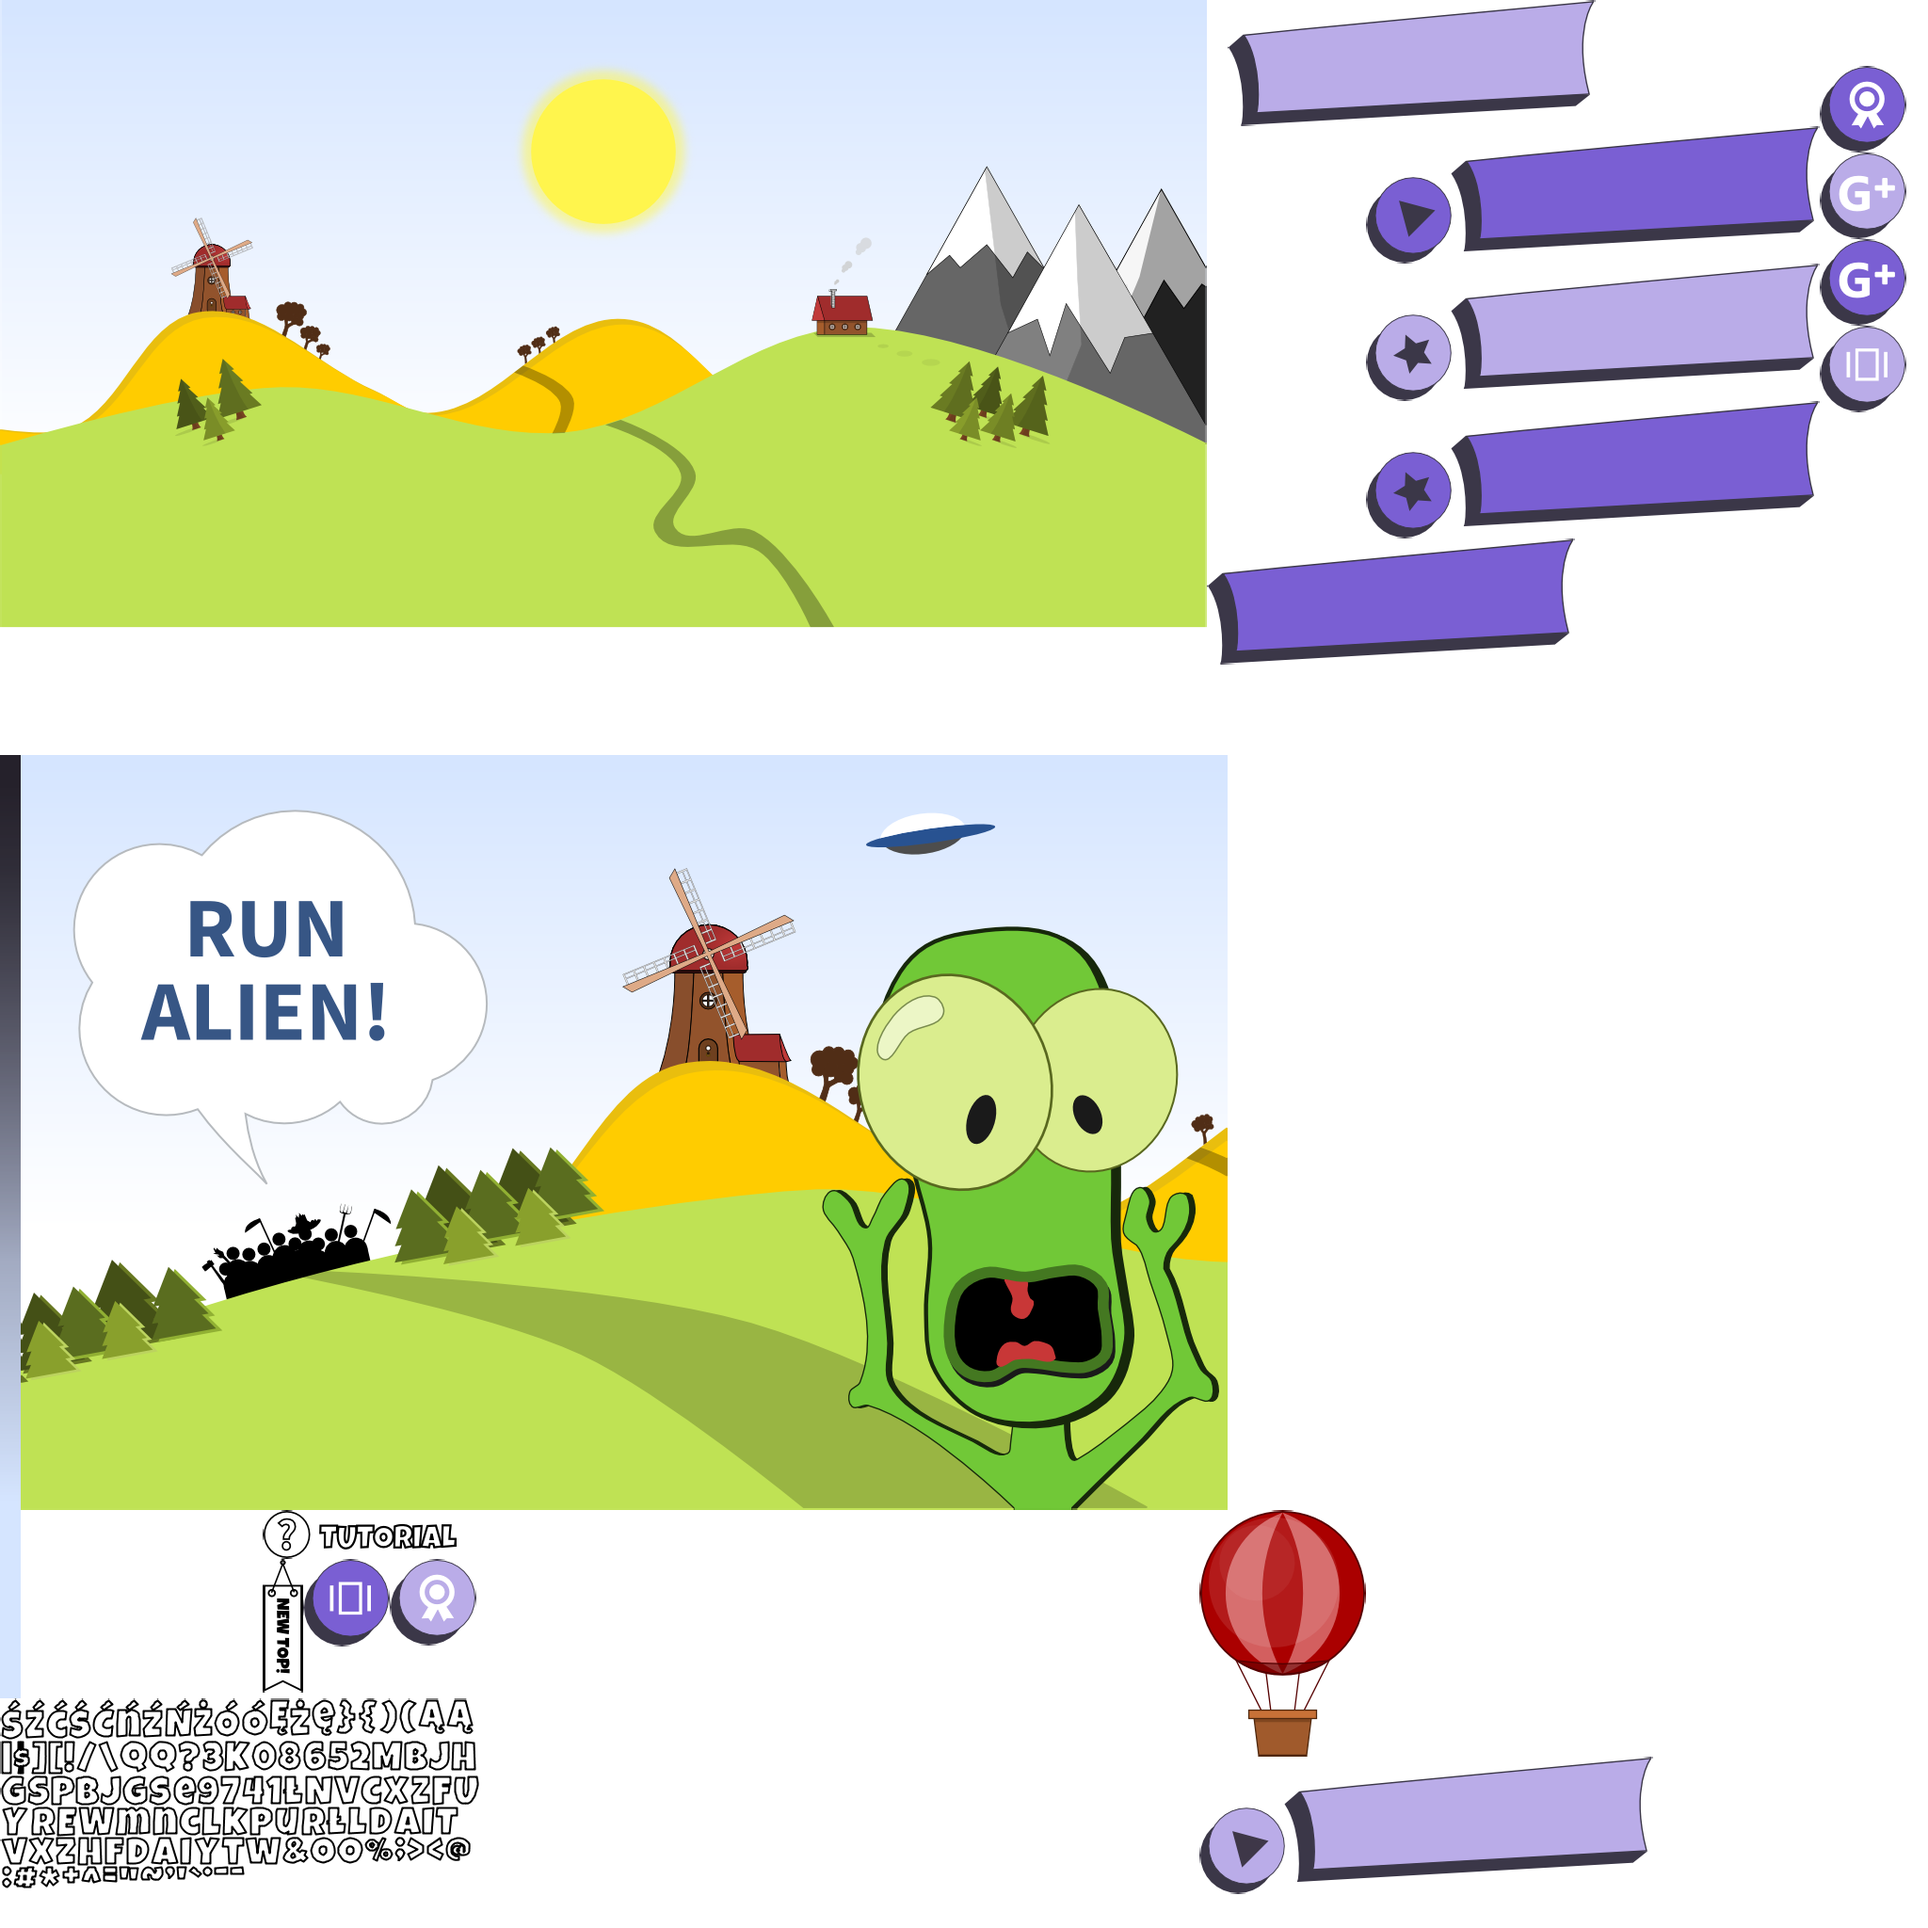
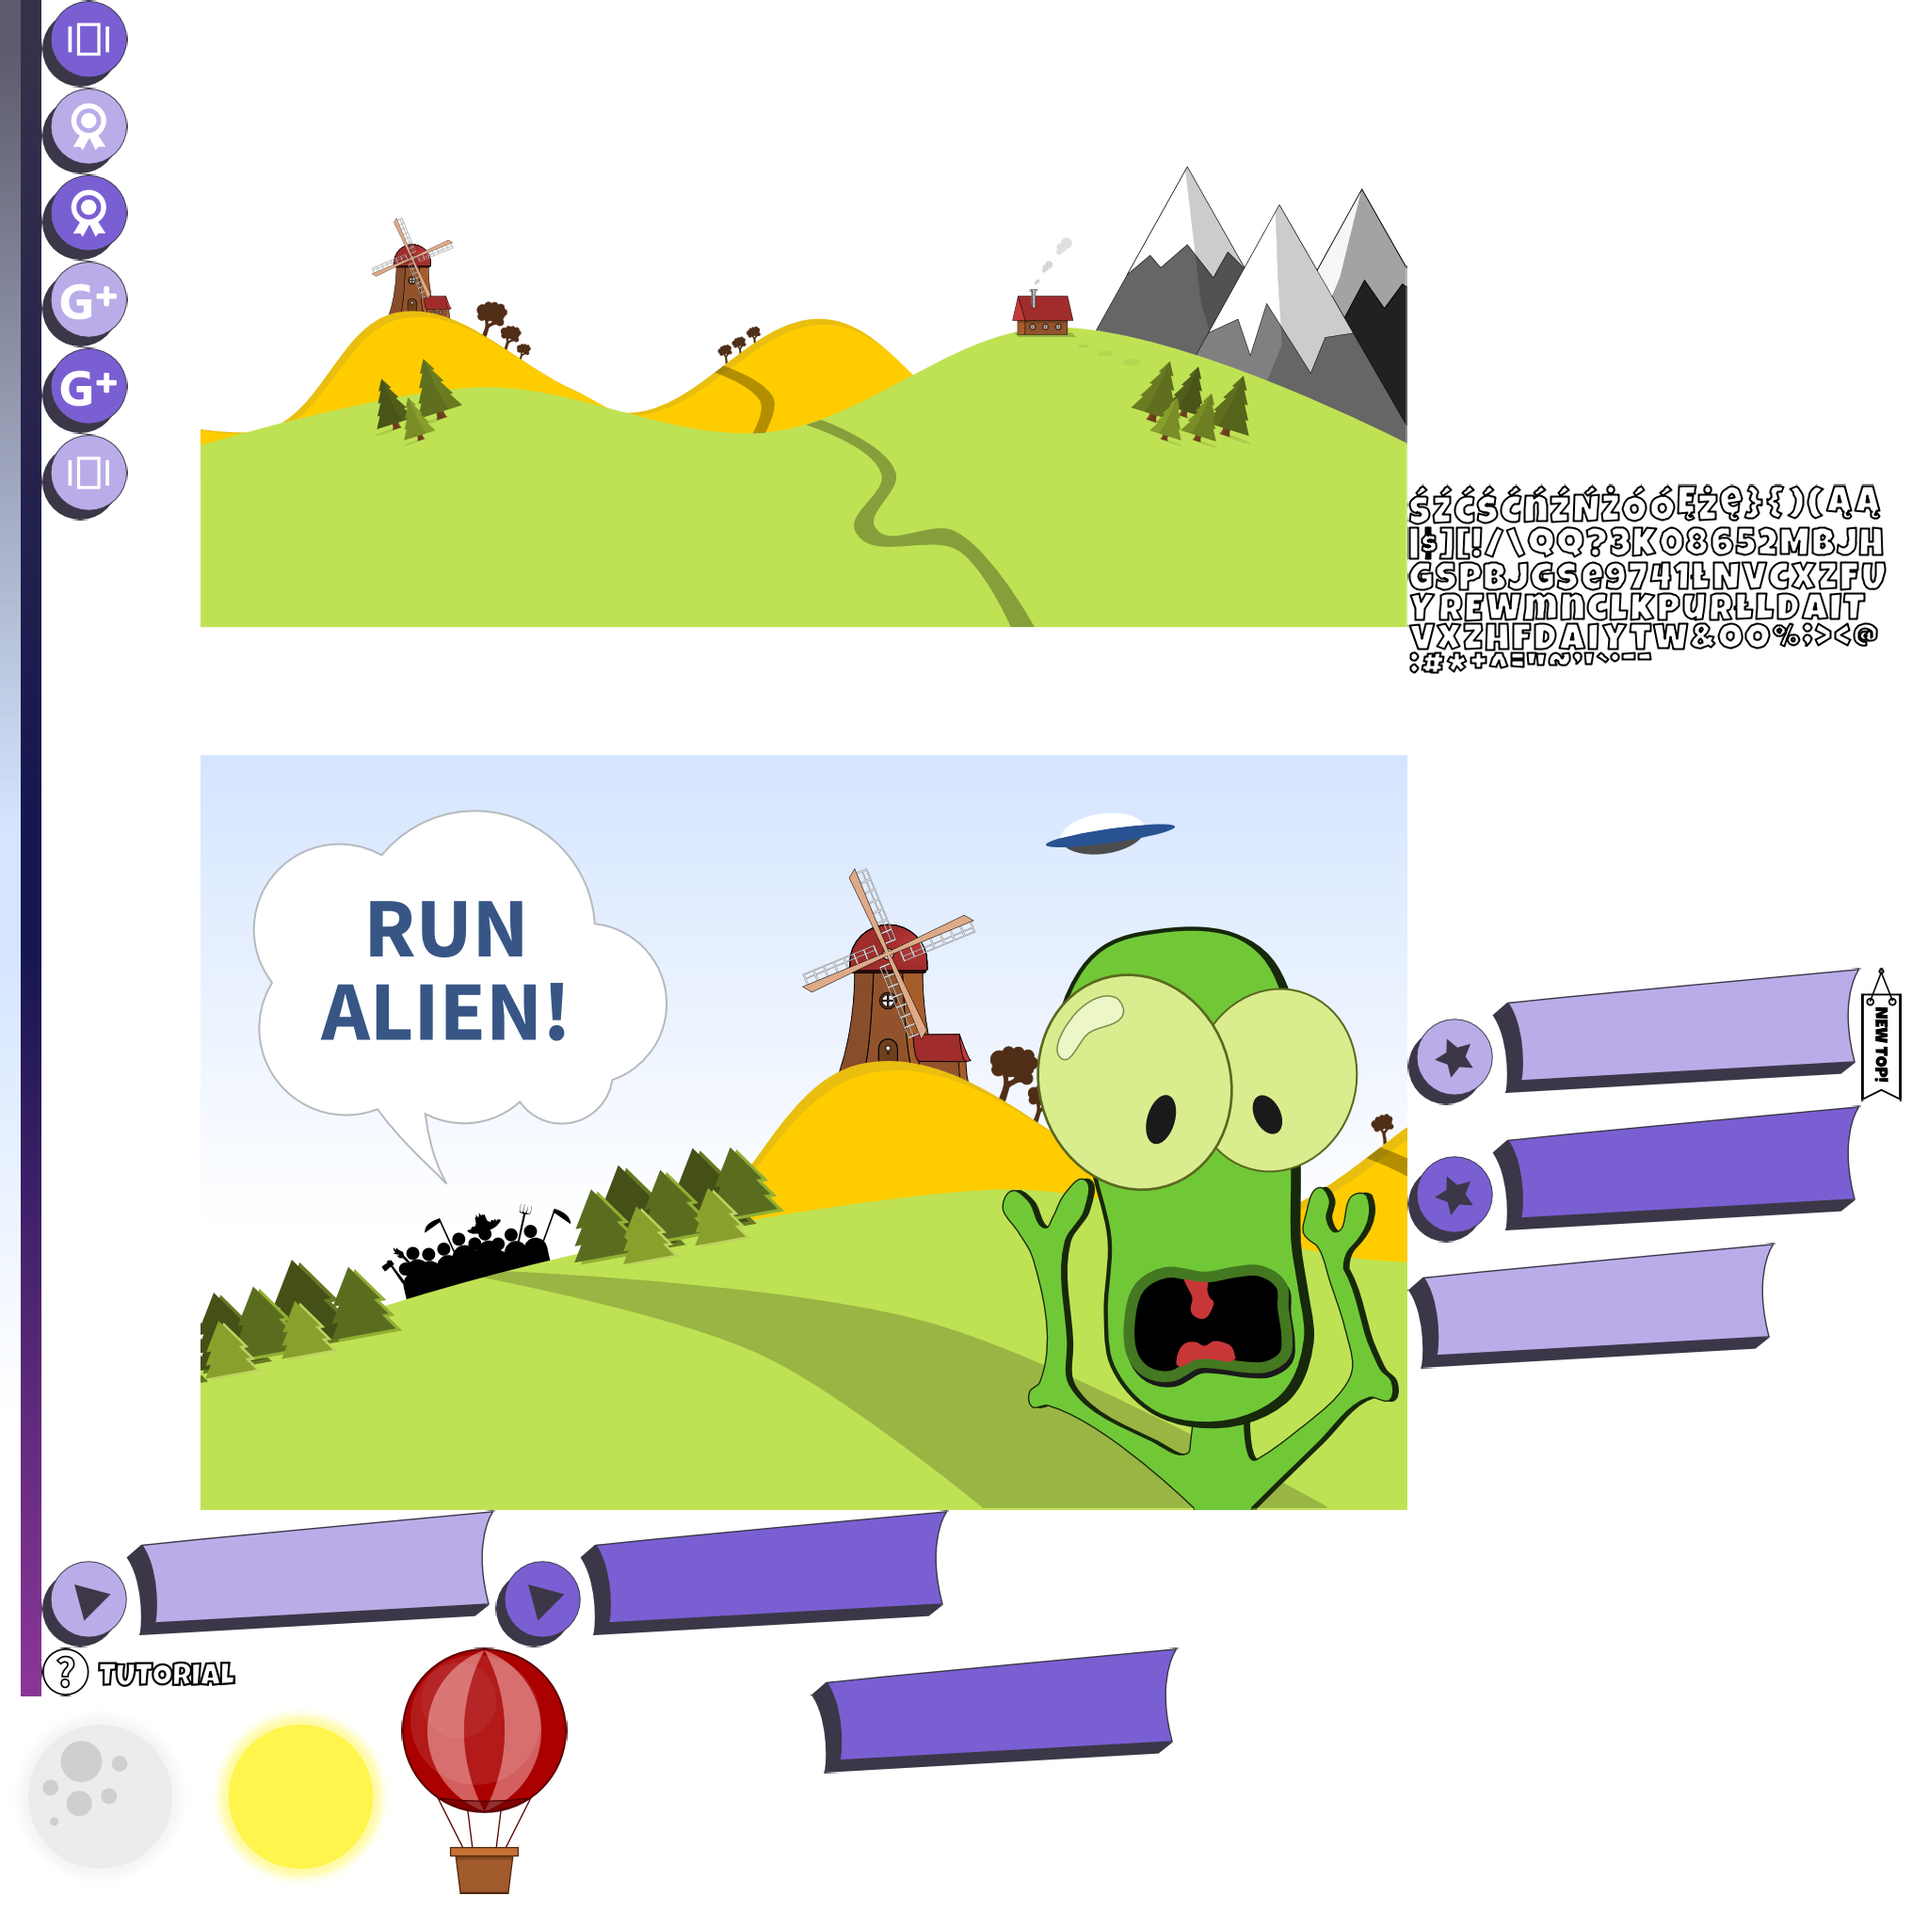
Shaders and simple fixes

diff --git a/core/src/com/apptogo/runalien/screen/GameScreen.java b/core/src/com/apptogo/runalien/screen/GameScreen.java
@@ -7,6 +7,7 @@ import com.apptogo.runalien.game.ParticleEffectActor;
 import com.apptogo.runalien.level.LevelGenerator;
 import com.apptogo.runalien.level.ObstaclesPool;
 import com.apptogo.runalien.main.Main;
+import com.apptogo.runalien.manager.CustomAction;
 import com.apptogo.runalien.manager.CustomActionManager;
 import com.apptogo.runalien.manager.ResourcesManager;
 import com.apptogo.runalien.physics.BodyBuilder;
@@ -23,10 +24,11 @@ import com.apptogo.runalien.scene2d.Label;
 import com.apptogo.runalien.scene2d.Listener;
 import com.apptogo.runalien.tools.UnitConverter;
 import com.badlogic.gdx.Gdx;
+import com.badlogic.gdx.Input.Keys;
 import com.badlogic.gdx.graphics.FPSLogger;
-import com.badlogic.gdx.graphics.OrthographicCamera;
 import com.badlogic.gdx.graphics.g2d.Animation.PlayMode;
 import com.badlogic.gdx.graphics.g2d.TextureAtlas;
+import com.badlogic.gdx.graphics.glutils.ShaderProgram;
 import com.badlogic.gdx.math.Interpolation;
 import com.badlogic.gdx.math.Vector2;
 import com.badlogic.gdx.physics.box2d.BodyDef.BodyType;
@@ -52,8 +54,12 @@ public class GameScreen extends BasicScreen {
 	protected Group finalScore;
 	protected FPSLogger logger = new FPSLogger();
 	protected int score = 0;
+	protected Image sky_day, sky_night, sun, moon;
 	protected Label scoreLabel;
 	public Button tutorialButton;
+	
+	protected ShaderProgram shaderProgram;
+	protected float shaderBrightness = 1, shaderSaturation = 1;
 	
 	protected boolean endGame = false, gameFinished = false;
 	
@@ -67,44 +73,22 @@ public class GameScreen extends BasicScreen {
 		
 		world = new World(new Vector2(0, -145), true);
 		world.setContactListener(contactListener);
+		
+		createBackgroundStage();
 		createGameWorldStage();
-		stagesToFade.add(gameworldStage);
+		createStage();
 		
-		backgroundStage.addActor(Image.get("space").width(Main.SCREEN_WIDTH).position(0, Main.SCREEN_HEIGHT/2f).centerX());
-		stage.addActor(Button.get("menu").position(0,  Main.SCREEN_HEIGHT/2f + 540).centerX().setListener(Listener.click(game, new MenuScreen(game))));
-		//TODO add listener handling
-		Button submitButton = Button.get("submit").position(0,  Main.SCREEN_HEIGHT/2f + 390).centerX();
-		submitButton.setListener(new ClickListener(){
-
-			@Override
-			public void clicked(InputEvent event, float x, float y) {
-				Main.gameCallback.submitScore(score);
-			}
-			
-		});
-		stage.addActor(submitButton);
+		//Shaders
+		//TODO to check performance (and improve it)
+		shaderProgram = new ShaderProgram(Gdx.files.internal("shaders/vert.shd"), Gdx.files.internal("shaders/frag.shd"));
+				
+		shaderProgram.begin();
+		shaderProgram.setUniformf("saturation", 1f);
+		shaderProgram.setUniformf("brightness", 1f);
+		shaderProgram.end();
 		
-		Button replayButton = Button.get("replay").position(0,  Main.SCREEN_HEIGHT/2f + 240).centerX();
-		replayButton.setListener(new ClickListener(){
-
-			@Override
-			public void clicked(InputEvent event, float x, float y) {
-				Main.gameCallback.showFullscreenAd();
-			}
-			
-		});
-		stage.addActor(replayButton);
-		
-		finalScore = new Group();
-		finalScore.setOrigin(Align.center);
-		finalScore.addAction(Actions.rotateBy(-1));
-		finalScore.addAction(Actions.forever(Actions.sequence(Actions.moveBy(0, 40, 4), Actions.moveBy(0, -40, 6))));
-		finalScore.addAction(Actions.forever(Actions.sequence(Actions.rotateBy(2, 2), Actions.rotateBy(-2, 2))));
-		finalScore.setPosition(-420,  Main.SCREEN_HEIGHT);
-		
-		finalScore.addActor(Image.get("balloon").centerX().centerY());
-		finalScore.setVisible(false);
-		stage.addActor(finalScore);		
+		backgroundStage.getBatch().setShader(shaderProgram);
+		gameworldStage.getBatch().setShader(shaderProgram);	
 		
 		//prepare CustomActionManager
 		gameworldStage.addActor(CustomActionManager.getInstance());
@@ -131,7 +115,6 @@ public class GameScreen extends BasicScreen {
 		player.addPlugin(new TouchSteeringPlugin());
 		
 		//create infinite ground body
-		//TODO should be polyline
 		BodyBuilder.get().addFixture("ground").box(10000, 0.1f).position(5000 - 5, Main.GROUND_LEVEL - 0.05f).friction(0.1f).create();
 
 		//create obstacle pool
@@ -164,13 +147,19 @@ public class GameScreen extends BasicScreen {
 			topScore.setPosition(sign.getX() + 1.6f - topScore.getWidth()/2f,  sign.getY() + 1.5f);
 			gameworldStage.addActor(topScore);
 		}
-		
-		scoreLabel = Label.get("0", "tutorial").position(-600, 320);
-		stage.addActor(scoreLabel);
 	}
 	
 	@Override
-	protected void step(float delta) {
+	protected void step(float delta) {	
+		shaderProgram.begin();
+		shaderProgram.setUniformf("saturation", shaderSaturation);
+		shaderProgram.setUniformf("brightness", shaderBrightness);
+		shaderProgram.end();
+		
+		//The magic is hidden outta here =|:^)>
+		if(Gdx.graphics.getFrameId()%500 == 0)
+			toggleDaytime();
+		
 		//simulate physics and handle body contacts
 		ContactListener.SNAPSHOT.clear();
 		world.step(delta, 3, 3);
@@ -251,12 +240,92 @@ public class GameScreen extends BasicScreen {
 		gameworldStage.dispose();
 		Main.gameCallback.setBannerVisible(false);
 	}
+	
+	void toggleDaytime()
+	{
+		if(sky_day.getColor().a >= 1) {
+			//Switch to night
+			sky_day.addAction(Actions.alpha(0, 0.5f));
+			sun.addAction(Actions.sequence(Actions.moveBy(0, 20, 0.1f), Actions.moveBy(0, -340, 0.15f)));
+			moon.addAction(Actions.sequence(Actions.delay(0.35f), Actions.moveBy(0, 340, 0.25f), Actions.moveBy(0, -20, 0.1f)));
+			CustomActionManager.getInstance().registerAction(new CustomAction(0, 50) {
+				@Override
+				public void perform() {
+					shaderSaturation -= 0.01f;
+				}
+			});
+		}
+		else {
+			//Switch to day
+			sky_day.addAction(Actions.alpha(1, 0.5f));
+			moon.addAction(Actions.sequence(Actions.moveBy(0, 20, 0.1f), Actions.moveBy(0, -340, 0.15f)));
+			sun.addAction(Actions.sequence(Actions.delay(0.35f), Actions.moveBy(0, 340, 0.25f), Actions.moveBy(0, -20, 0.1f)));
+			CustomActionManager.getInstance().registerAction(new CustomAction(0, 50) {
+				@Override
+				public void perform() {
+					shaderSaturation += 0.01f;
+				}
+			});
+		}
+	}
 
+	protected void createBackgroundStage() {
+		sun = Image.get("sun").position(0, 160).centerX();
+		backgroundStage.addActor(sun);
+		sun.toBack();
+		
+		moon = Image.get("moon").position(0, -160).centerX();
+		backgroundStage.addActor(moon);
+		moon.toBack();
+		
+		sky_day = Image.get("sky_day").width(Main.SCREEN_WIDTH).position(0, -Main.SCREEN_HEIGHT/2f).centerX();
+		backgroundStage.addActor(sky_day);
+		sky_day.toBack();
+		
+		sky_night = Image.get("sky_night").width(Main.SCREEN_WIDTH).position(0, -Main.SCREEN_HEIGHT/2f).centerX();
+		backgroundStage.addActor(sky_night);
+		sky_night.toBack();
+	}
+	
 	protected void createGameWorldStage() {
 		gameworldStage = new Stage();
 		gameworldStage.setViewport(new FillViewport(UnitConverter.toBox2dUnits(Main.SCREEN_WIDTH), UnitConverter.toBox2dUnits(Main.SCREEN_HEIGHT)));
-		((OrthographicCamera) gameworldStage.getCamera()).setToOrtho(false, UnitConverter.toBox2dUnits(Main.SCREEN_WIDTH), UnitConverter.toBox2dUnits(Main.SCREEN_HEIGHT));
-		((OrthographicCamera) gameworldStage.getCamera()).zoom = 1f;
+		//((OrthographicCamera) gameworldStage.getCamera()).setToOrtho(false, UnitConverter.toBox2dUnits(Main.SCREEN_WIDTH), UnitConverter.toBox2dUnits(Main.SCREEN_HEIGHT));
+		//((OrthographicCamera) gameworldStage.getCamera()).zoom = 1f;
+		
+		stagesToFade.add(gameworldStage);
+	}
+	
+	protected void createStage() {
+		stage.addActor(Button.get("menu").position(0,  Main.SCREEN_HEIGHT/2f + 540).centerX().setListener(Listener.click(game, new MenuScreen(game))));
+		
+		stage.addActor(Button.get("submit").position(0,  Main.SCREEN_HEIGHT/2f + 390).centerX().setListener(new ClickListener(){
+			@Override
+			public void clicked(InputEvent event, float x, float y) {
+				Main.gameCallback.submitScore(score);
+			}
+		}));
+		
+		stage.addActor(Button.get("replay").position(0,  Main.SCREEN_HEIGHT/2f + 240).centerX().setListener(new ClickListener(){
+			@Override
+			public void clicked(InputEvent event, float x, float y) {
+				Main.gameCallback.showFullscreenAd();
+			}
+		}));
+		
+		finalScore = new Group();
+		finalScore.setOrigin(Align.center);
+		finalScore.addAction(Actions.rotateBy(-1));
+		finalScore.addAction(Actions.forever(Actions.sequence(Actions.moveBy(0, 40, 4), Actions.moveBy(0, -40, 6))));
+		finalScore.addAction(Actions.forever(Actions.sequence(Actions.rotateBy(2, 2), Actions.rotateBy(-2, 2))));
+		finalScore.setPosition(-420,  Main.SCREEN_HEIGHT);
+		
+		finalScore.addActor(Image.get("balloon").centerX().centerY());
+		finalScore.setVisible(false);
+		stage.addActor(finalScore);
+		
+		scoreLabel = Label.get("0", "tutorial").position(-600, 320);
+		stage.addActor(scoreLabel);
 	}
 	
 	protected Group createTopScore(String score, float scale) {

diff --git a/core/src/com/apptogo/runalien/scene2d/Image.java b/core/src/com/apptogo/runalien/scene2d/Image.java
@@ -87,6 +87,12 @@ public class Image extends com.badlogic.gdx.scenes.scene2d.ui.Image {
     	this.addAction(action);
     	return this;
     }
+    
+    public Image back()
+    {
+    	this.toBack();
+    	return this;
+    }
 
     public TextureRegion getRegion() {
         return region;

diff --git a/core/src/com/apptogo/runalien/screen/MenuScreen.java b/core/src/com/apptogo/runalien/screen/MenuScreen.java
@@ -13,8 +13,6 @@ import com.badlogic.gdx.scenes.scene2d.utils.ClickListener;
 
 public class MenuScreen extends BasicScreen {
 	
-
-	
     public MenuScreen(Main game) {
         super(game, "background_menu");
     }
